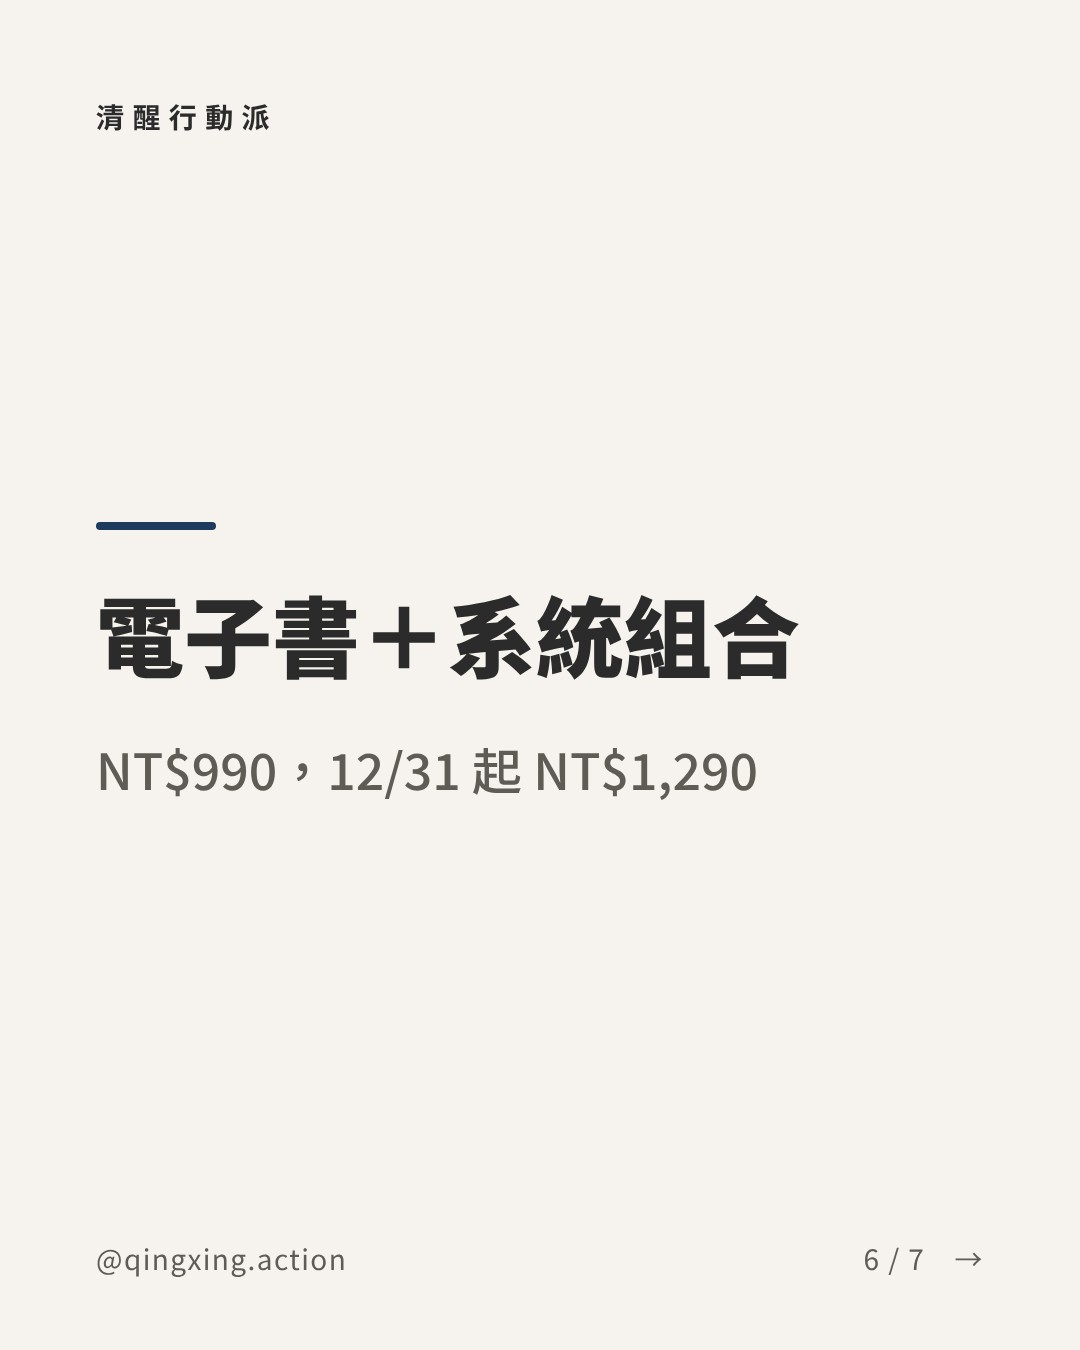
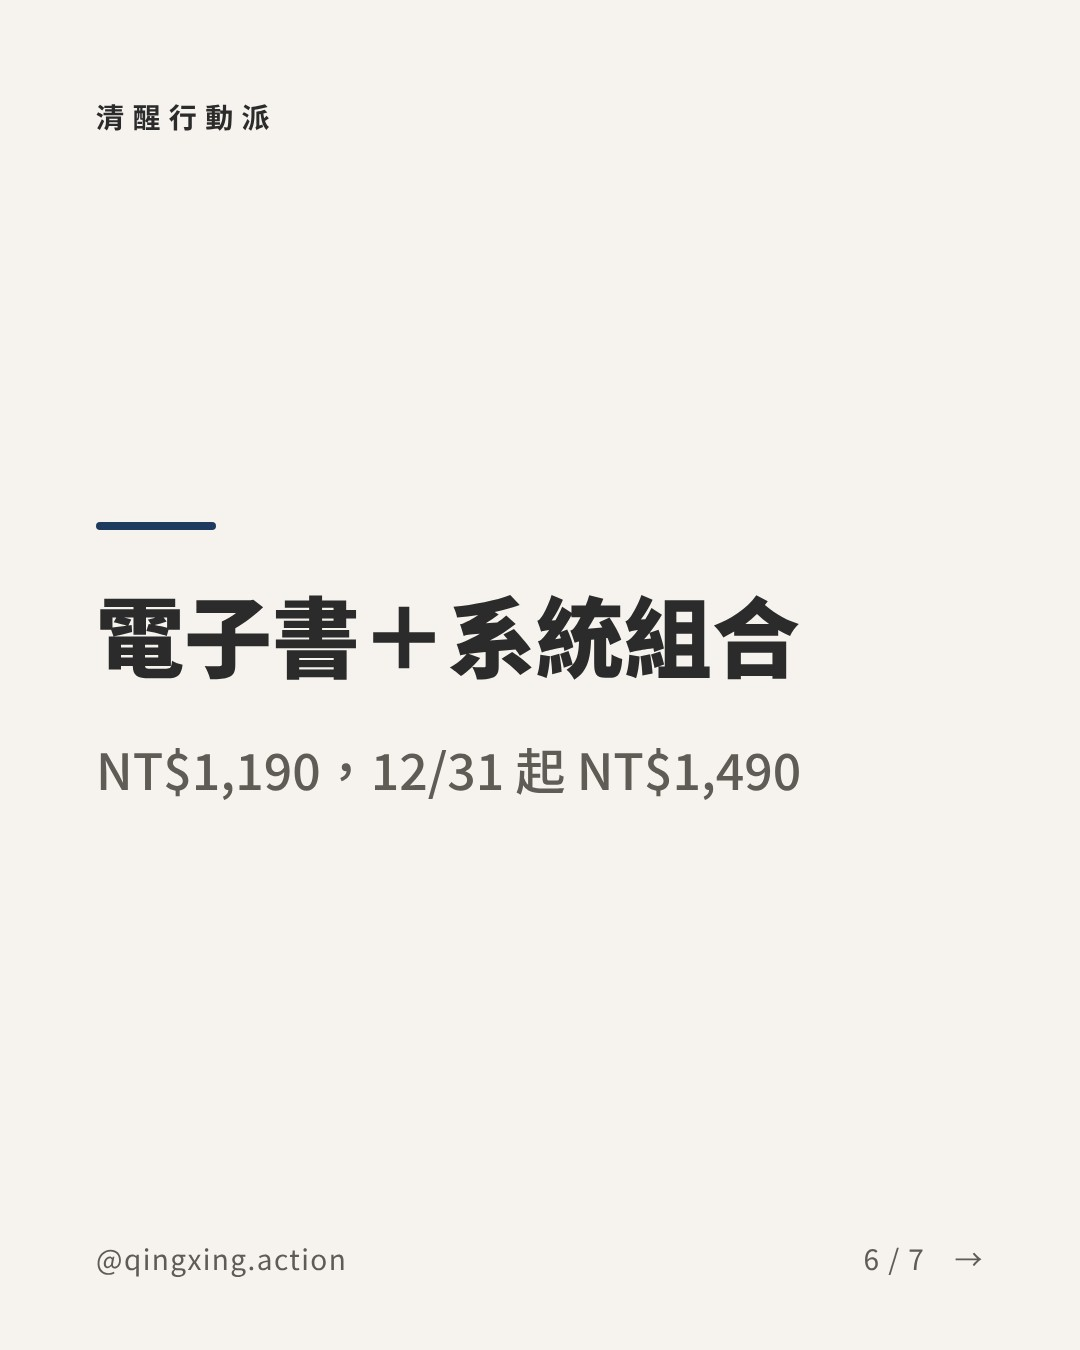
qingxing: Notion 系統 12/3 起 690、組合 1,190 → 1,490、進階版首發 1,990（1/11 起 2,490）
Claude-Session: https://claude.ai/code/session_016ub6HVfmbt68BdywDv2i6d

Changed region(s): [[0.1833, 0.5289, 0.7639, 0.5911]]

diff --git a/qingxing/index.html b/qingxing/index.html
@@ -391,14 +391,15 @@ const MILESTONES = [
   ["2026-11-19","首發 30 名送 7 天回饋（到 11/26）"],
   ["2026-11-29","Day 20 草稿要補截圖與讀者回饋"],
   ["2026-12-01","團體方案開發開始"],
-  ["2026-12-03","電子書 V2 更新，漲到 690（組合 990）"],
+  ["2026-12-03","電子書 V2 更新，電子書 690、Notion 系統 690（組合 1,190）"],
   ["2026-12-09","30 天 IG 主題結束"],
   ["2026-12-10","讀者推薦計畫開始（分 30%）"],
-  ["2026-12-15","進階版上架 1,490"],
+  ["2026-12-15","進階版上架（首發 1,990）"],
   ["2026-12-17","電子書 V3 更新（價格不變）"],
   ["2026-12-26","新年 90 天檔期開始（到 1/10）"],
-  ["2026-12-31","電子書 V4 更新，調到 990（組合 1,290）"],
+  ["2026-12-31","電子書 V4 更新，調到 990（組合 1,490）"],
   ["2027-01-08","30 天文字陪跑開放（限 8 人）"],
+  ["2027-01-11","進階版首發價結束，調到 2,490"],
   ["2027-01-28","電子書每月更新"],["2027-02-28","電子書每月更新"],["2027-03-28","電子書每月更新"],["2027-04-28","電子書每月更新"],
 ];
 const WD = ["日","一","二","三","四","五","六"];
@@ -614,7 +615,7 @@ const formData = f => Object.fromEntries([...new FormData(f)].map(([k,v]) => [k,
 const today = () => tpeToday();
 $("#fGrowth").date.value = today(); $("#fIncome").date.value = today();
 $("#prodSel").innerHTML = PRODUCT_ORDER.map(p => `<option>${p}</option>`).join("");
-const PRICE_HINT = { "電子書《從迷惘到行動》":390, "Notion 清醒行動系統":490, "電子書+Notion系統組合":690, "進階版":1490, "陪跑服務":4800, "團體方案":4990 };
+const PRICE_HINT = { "電子書《從迷惘到行動》":390, "Notion 清醒行動系統":490, "電子書+Notion系統組合":690, "進階版":1990, "陪跑服務":4800, "團體方案":4990 };
 $("#prodSel").onchange = () => { const f = $("#fIncome"); if (PRICE_HINT[f.product.value]) { f.unit.value = PRICE_HINT[f.product.value]; f.amount.value = PRICE_HINT[f.product.value] * (Number(f.qty.value) || 1); } };
 $("#fIncome").qty.oninput = $("#fIncome").unit.oninput = () => { const f = $("#fIncome"); if (f.unit.value) f.amount.value = Number(f.unit.value) * (Number(f.qty.value) || 1); };
 function fillTopic(){ const f = $("#fGrowth"); const p = state.schedule.find(x => x.date === f.date.value); if (p && !f.topic.dataset.manual){ f.topic.value = `Day ${p.day} ${p.title}`; f.format.value = { carousel:"輪播", reel:"Reels", quote:"單圖" }[p.kind] || "輪播"; } }

diff --git a/qingxing/instagram/posts/2026-12-09-day30-thirty-day-review.md b/qingxing/instagram/posts/2026-12-09-day30-thirty-day-review.md
@@ -12,7 +12,7 @@ status: draft
 ---
 30 天做完了。
 
-回顧這 30 篇，最多人收藏的是【依數據填】。這些工具都在清醒行動系統裡，電子書＋系統組合現在 NT$990，12/31 起調為 NT$1,290。
+回顧這 30 篇，最多人收藏的是【依數據填】。這些工具都在清醒行動系統裡，電子書＋系統組合現在 NT$1,190，12/31 起調為 NT$1,490。
 
 12 月會上架進階版「用 AI 打造個人行動系統」，教你把 AI 設定成自己的行動教練，再做一個寫著你名字的儀表板。連結在首頁。
 
